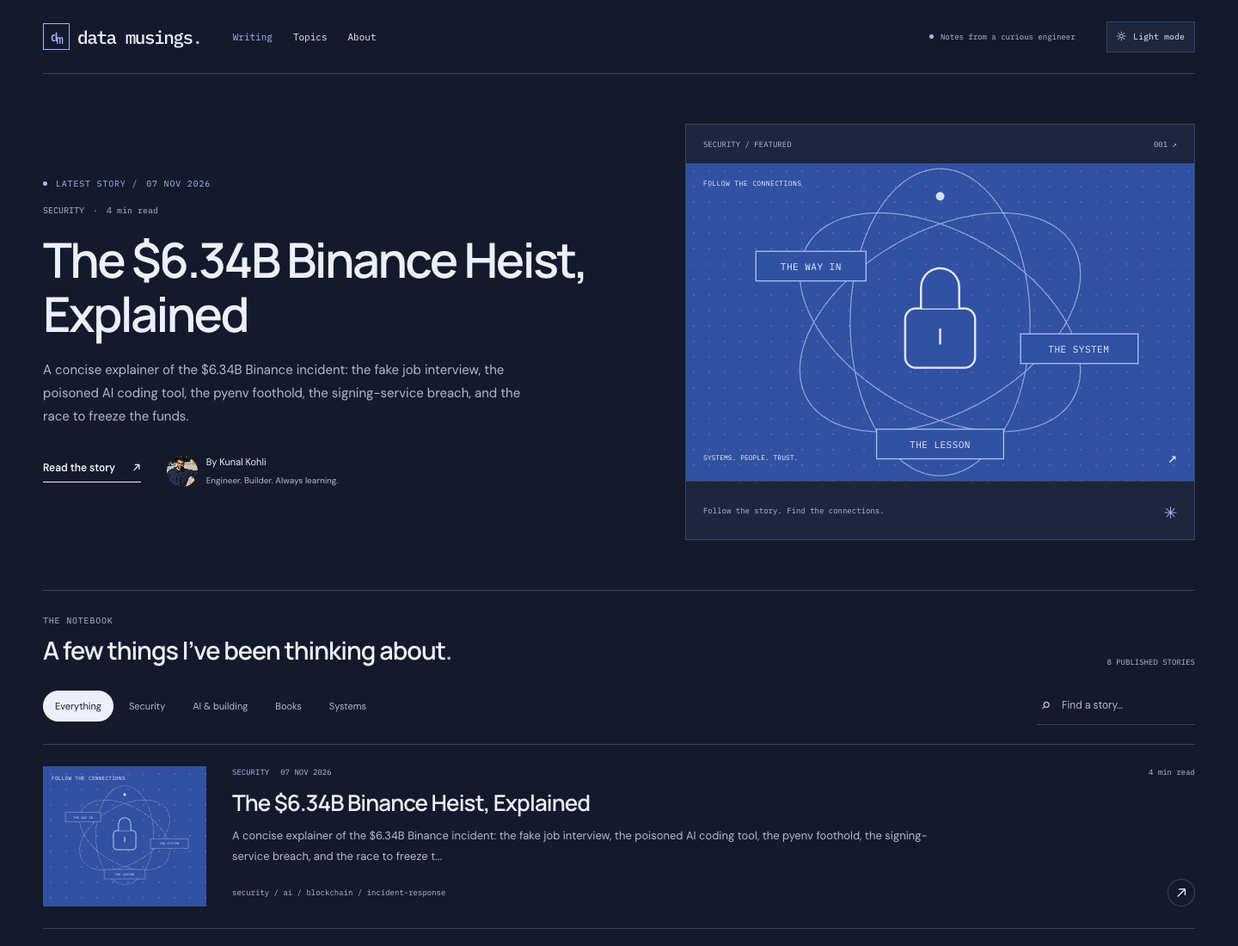
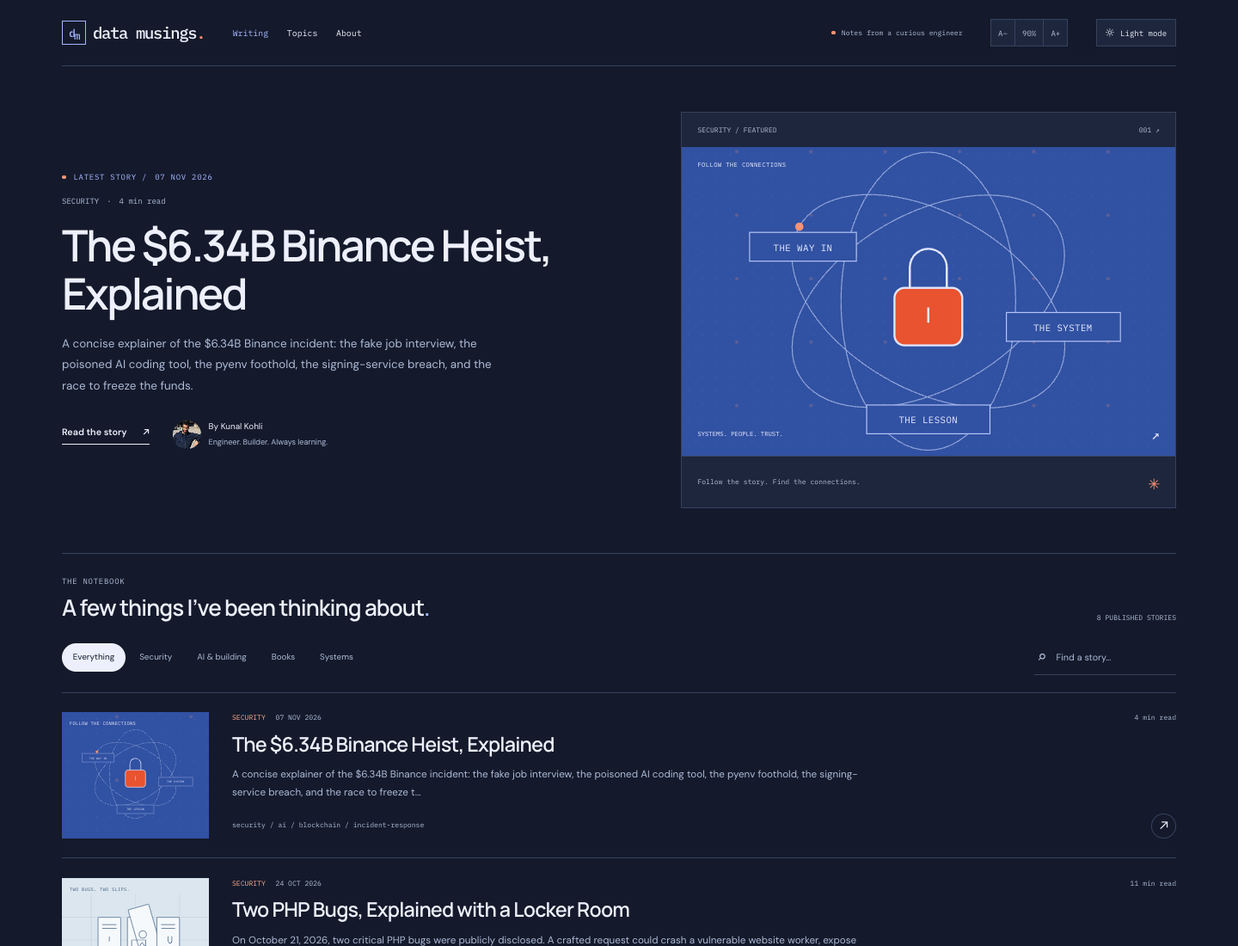
Add text-size control, unique per-post cover art and contents sidebar upgrades

diff --git a/css/site.css b/css/site.css
@@ -53,6 +53,7 @@ button:focus-visible, a:focus-visible, input:focus-visible, summary:focus-visibl
 .nav-note { margin-left: auto; display: flex; gap: 8px; align-items: center; font: 9px var(--mono); color: var(--muted); }
 .nav-note > span, .status-dot { width: 5px; height: 5px; border-radius: 50%; background: var(--citrus); flex-shrink: 0; }
 .theme-toggle { display: inline-flex; align-items: center; justify-content: center; gap: 8px; padding: 7px 11px; font: 10px var(--mono); border: 1px solid var(--line); background: var(--surface); min-height: 36px; white-space: nowrap; }
+.text-size { display: inline-flex; align-items: stretch; border: 1px solid var(--line); background: var(--surface); min-height: 36px; }.text-size button { border: 0; background: transparent; color: var(--muted); padding: 0 9px; font: 10px/1 var(--mono); }.text-size button:hover:not(:disabled) { color: var(--accent); }.text-size button:disabled { opacity: .35; cursor: default; }.text-size [data-text-label] { display: inline-flex; align-items: center; justify-content: center; min-width: 36px; border-inline: 1px solid var(--line); padding: 0 9px; font: 10px var(--mono); color: var(--muted); }
 [data-theme-icon] { font: 19px/1 var(--body); }
 .eyebrow { font: 10px/1.7 var(--mono); color: var(--muted); letter-spacing: .08em; margin: 0 0 16px; text-transform: uppercase; }
 .text-link { display: inline-flex; align-items: center; gap: 20px; padding-bottom: 5px; border-bottom: 1px solid currentColor; font-size: 12px; font-weight: 600; }
@@ -77,13 +78,18 @@ button:focus-visible, a:focus-visible, input:focus-visible, summary:focus-visibl
 .art-tag { position: absolute; top: 18px; left: 20px; z-index: 1; font: 8px var(--mono); letter-spacing: .05em; }
 .art-caption { position: absolute; bottom: 14px; left: 20px; right: 20px; display: flex; align-items: center; justify-content: space-between; gap: 10px; font: 8px/1.5 var(--mono); }
 .art-caption > span { font-size: 18px; }
-.art-security { background-color: #3151a2; background-image: radial-gradient(#ffffff22 1px, transparent 1px); }
+.art-security { background-color: #3151a2; background-image: radial-gradient(#ff9d7e33 2px, transparent 2.6px), radial-gradient(#ffffff22 1px, transparent 1px); background-size: 96px 82px, 18px 18px; background-position: 23px 47px, 0 0; }
 .art-orbits { stroke: #cedaff; stroke-width: 1; opacity: .6; }
-.art-lock { stroke: #e0e5ff; stroke-width: 2; fill: #3151a2; }
-.art-labels rect { fill: #3151a2; stroke: #b5c5f7; stroke-width: 1; }.art-labels text { fill: #e8edff; font: 9px var(--mono); letter-spacing: .04em; }
-.orbit-dot { fill: var(--citrus); transform-origin: 240px 150px; animation: orbit 28s linear infinite; }
+.art-lock { stroke: #e0e5ff; stroke-width: 2; fill: none; }.art-lock rect { fill: #e9532f; }
+.art-labels rect { fill: #3151a2; stroke: #b5c5f7; stroke-width: 1; }.art-labels text { fill: #e8edff; font: 9px var(--mono); letter-spacing: .04em; }.art-lesson { fill: #e9532f; stroke: #ffc9b6; }.art-lesson-text { fill: #fff; }
+.orbit-dot { fill: var(--citrus); offset-path: path("M114.43 77.5A145 85 30 1 1 365.57 222.5A145 85 30 1 1 114.43 77.5"); transform-box: fill-box; transform-origin: center; offset-anchor: center; animation: orbit-follow 28s linear infinite; }
 .art-building { background: #dce6ef; color: #416183; }.art-grid { stroke: #41618325; }.art-chart { stroke: #416183; stroke-width: 2; stroke-linejoin: round; stroke-dasharray: 650; stroke-dashoffset: 650; animation: draw 2.4s ease forwards; }
 .art-books { background: #e5d9cf; color: #6c5141; }.art-books svg { stroke: #866851; stroke-width: 1.5; }.art-books rect { fill: #f4e6d7; }
+.art-lockers { background: #dce6ef; color: #416183; }.art-lockers svg { stroke: #416183; stroke-width: 2; stroke-linejoin: round; fill: none; }.art-lockers .locker > rect { fill: #f6f9fc; }
+.art-pulse { background: #def0e7; color: #2e7d64; }.art-pulse svg { stroke: #2e7d64; stroke-width: 2; stroke-linejoin: round; fill: none; }.art-pulse .art-grid { stroke: #2e7d6422; }.art-pulse .art-chart { stroke: #2e7d64; }
+.art-paper { background: #f6efe3; color: #8a6d4e; }.art-paper svg { stroke: #8a6d4e; stroke-width: 2; stroke-linejoin: round; fill: none; }.art-paper rect { fill: #fffdf7; }.art-paper .pencil rect { fill: #e9d9b8; }
+.art-branch { background: #dbe4f6; color: #3f5da8; }.art-branch svg { stroke: #3f5da8; stroke-width: 2; stroke-linejoin: round; fill: none; }.art-branch svg > circle { fill: #3f5da8; stroke: none; }
+.art-hello { background: #243059; color: #c9d5ff; }.art-hello svg { stroke: #8fa5e8; stroke-width: 1.5; fill: none; }.art-hello svg > text { fill: #c9d5ff; font: 11px var(--mono); letter-spacing: .04em; }
 .art-systems { background: #dce1f4; color: #47619f; }.art-systems svg { stroke: #47619f; stroke-width: 1.5; }.art-systems svg > rect { fill: #b9c8f3; }.system-wires { stroke-dasharray: 3 5; }
 .latest-visual .post-art { min-height: 315px; height: auto; }.latest-visual .post-art svg { min-height: 315px; max-height: 430px; }.post-cover-image { width: 100%; height: 100%; object-fit: cover; display: block; }.latest-visual .post-cover-image { max-height: 400px; }
 .writing { scroll-margin-top: 30px; }
@@ -101,6 +107,7 @@ button:focus-visible, a:focus-visible, input:focus-visible, summary:focus-visibl
 .empty-state { padding-block: 35px; color: var(--muted); }.notebook-note { display: flex; align-items: center; gap: 24px; padding-block: 28px; border-block: 1px solid var(--line); margin-top: 30px; }.spark { color: var(--citrus); font-size: 32px; line-height: 1; }.notebook-note p { font: 14px/1.8 var(--mono); margin: 0; }.notebook-note p strong { font-weight: 500; }.notebook-note .text-link { margin-left: auto; }
 .site-footer { display: flex; align-items: center; gap: 28px; padding-block: 35px; }.site-footer .wordmark { font-size: 19px; }.site-footer > div > p { font-size: 11px; color: var(--muted); margin: 7px 0 0; }.site-footer nav { display: flex; flex-wrap: wrap; gap: 20px; font-size: 11px; margin-left: auto; }.site-footer nav a:hover { color: var(--accent); }.footer-credit { color: var(--muted); font: 8px var(--mono); }
 /* Articles: existing content is retained verbatim. */
+#post { max-width: 1240px; }
 .post-header { padding: 32px 0 40px; max-width: 1080px; margin: 0 auto; }.back-link { color: var(--muted); font-size: 11px; display: inline-flex; margin-bottom: 32px; }.post-topics { display: flex; flex-wrap: wrap; gap: 8px 15px; color: var(--accent); font: 10px/1.7 var(--mono); text-transform: uppercase; }.post-topics a:hover { text-decoration: underline; }
 .post-header h1 { font: 600 clamp(36px, 4.6vw, 68px)/1.12 var(--heading); letter-spacing: -.045em; margin: 20px 0 24px; overflow-wrap: break-word; }.post-deck { color: var(--muted); font-size: 17px; line-height: 1.8; margin: 0 0 25px; max-width: 790px; }
 .post-byline { display: flex; align-items: center; gap: 11px; font-size: 11px; }.post-byline img { border-radius: 50%; object-fit: cover; width: 40px; height: 40px; }.post-byline > div > a { font-weight: 600; }.post-byline p { display: flex; align-items: center; flex-wrap: wrap; gap: 10px; color: var(--muted); margin: 3px 0 0; font-size: 10px; }.copy-link { margin-left: auto; border: 1px solid var(--line); padding: 8px 12px; background: var(--surface); font: 10px var(--mono); }
@@ -111,7 +118,7 @@ button:focus-visible, a:focus-visible, input:focus-visible, summary:focus-visibl
 .post-layout:not(:has(.post-toc)) .post-content, .post-layout.no-toc .post-content { grid-column: 1; }
 .post-toc { position: sticky; top: 24px; max-height: calc(100svh - 48px); overflow-y: auto; scrollbar-width: thin; }
 .toc-disclosure summary { display: flex; justify-content: space-between; gap: 10px; font: 9px/1.7 var(--mono); color: var(--muted); letter-spacing: .08em; cursor: pointer; padding-block: 4px 16px; list-style: none; }.toc-disclosure summary::-webkit-details-marker { display: none; }.toc-disclosure[open] summary > span { transform: rotate(180deg); }
-.post-toc ol { list-style: none; margin: 0; padding: 0; }.post-toc a { display: block; color: var(--muted); padding: 10px 3px; border-bottom: 1px solid var(--line); font-size: 11px; line-height: 1.6; overflow-wrap: anywhere; }.post-toc a[aria-current="location"] { color: var(--accent); font-weight: 600; border-bottom-color: var(--accent); }.post-toc a:hover { color: var(--accent); }.toc-footnote { font: 11px/1.9 var(--mono); margin-top: 28px; color: var(--muted); }.toc-footnote > span { display: block; font: 30px var(--body); color: var(--citrus); margin-bottom: 8px; }
+.post-toc ol { list-style: none; margin: 0; padding: 0; }.post-toc a { display: block; color: var(--muted); padding: 10px 3px; border-bottom: 1px solid var(--line); font-size: 11px; line-height: 1.6; overflow-wrap: anywhere; }.post-toc a[aria-current="location"] { color: var(--accent); font-weight: 600; border-bottom-color: var(--accent); }.post-toc a:hover { color: var(--accent); }.toc-index { display: block; font: 8px var(--mono); letter-spacing: .1em; color: var(--muted); opacity: .8; margin-bottom: 2px; }.post-toc a[aria-current="location"] .toc-index { color: var(--citrus-ink); opacity: 1; }.post-toc li[data-heading-level="3"] > a { padding-left: 16px; }.post-toc li[data-heading-level="4"] > a { padding-left: 32px; }.toc-left { margin: 16px 0 0; font: 11px var(--mono); color: var(--muted); }.toc-left [data-toc-remaining] { color: var(--citrus-ink); font-weight: 600; }.toc-footnote { font: 11px/1.9 var(--mono); margin-top: 28px; color: var(--muted); }.toc-footnote > span { display: block; font: 30px var(--body); color: var(--citrus); margin-bottom: 8px; }
 .post-content { min-width: 0; font-size: 17px; line-height: 1.85; overflow-wrap: break-word; }
 .post-content > :is(p, ul, ol, h2, h3, h4, h5, h6, blockquote, pre, .highlight) { max-width: 760px; }
 .post-content p { margin: 0 0 1.35em; }.post-content h1, .post-content h2, .post-content h3, .post-content h4, .post-content h5, .post-content h6 { color: var(--ink); line-height: 1.3; letter-spacing: -.025em; font-family: var(--heading); font-weight: 600; margin: 1.7em 0 .75em; scroll-margin-top: 85px; }.post-content h2 { font-size: 30px; }.post-content h3 { font-size: 24px; }.post-content h4 { font-size: 21px; }.post-content h5, .post-content h6 { font-size: 18px; }.post-content > :first-child { margin-top: 0; }
@@ -140,13 +147,13 @@ code, pre { font-family: var(--mono); }.post-content code { padding: 2px 5px; ba
 .archive-group { margin-bottom: 45px; }.archive-group > h2 { font: 500 27px var(--heading); letter-spacing: -.03em; padding-bottom: 16px; border-bottom: 1px solid var(--line); }.archive-group > h2 > span { font: 10px var(--mono); color: var(--muted); margin-left: 15px; }.archive-list { list-style: none; margin: 0; padding: 0; }.archive-list > li { display: grid; grid-template-columns: 80px minmax(0,1fr) 100px; gap: 20px; align-items: baseline; padding: 18px 0; border-bottom: 1px solid var(--line); }.archive-list time, .archive-list li > span { font: 10px var(--mono); color: var(--muted); }.archive-list a { font-size: 17px; }.archive-list li > span { text-align: right; }
 .category-index { display: flex; flex-wrap: wrap; gap: 10px; margin-bottom: 40px; }.category-index > a, .skill-list > li { border: 1px solid var(--line); background: var(--surface); padding: 9px 14px; font-size: 12px; }.category-index > a > span { color: var(--muted); margin-left: 7px; font: 9px var(--mono); }.topic-groups { display: grid; grid-template-columns: repeat(2,minmax(0,1fr)); gap: 32px; }.topic-group { border-top: 1px solid var(--line); padding-top: 16px; }.topic-group h2 { scroll-margin-top: 30px; font: 500 24px var(--heading); letter-spacing: -.025em; text-transform: capitalize; }.topic-group ul { margin: 0; padding: 0; list-style: none; }.topic-group li { border-bottom: 1px solid var(--line); padding: 15px 0; font-size: 14px; }.topic-group time { display: block; font: 9px var(--mono); color: var(--muted); margin-top: 8px; }
 .about-header { display: flex; align-items: center; justify-content: space-between; gap: 30px; max-width: 1000px; margin-bottom: 40px; }.about-header img { border-radius: 50%; object-fit: cover; width: 150px; height: 150px; }.about-deck { color: var(--muted); margin: 0; }.about-grid { display: grid; grid-template-columns: minmax(0,1.4fr) minmax(0,1fr); gap: 65px; }.about-section { margin-bottom: 40px; border-top: 1px solid var(--line); padding-top: 22px; }.about-section h1, .about-section h2 { font: 600 26px var(--heading); letter-spacing: -.025em; margin: 0 0 20px; }.about-section h3 { font: 600 19px var(--heading); letter-spacing: -.025em; margin: 0 0 14px; }.about-section p, .about-section > div { color: var(--muted); font-size: 14px; line-height: 1.9; }.project-card { padding: 24px 0; border-bottom: 1px solid var(--line); }.project-card > div { color: var(--muted); font-size: 13px; line-height: 1.9; }.project-links { display: flex; gap: 20px; margin-top: 20px; }.project-links a { color: var(--accent); font-size: 12px; text-decoration: underline; text-underline-offset: 3px; }.skill-list { list-style: none; padding: 0; margin: 0; display: flex; flex-wrap: wrap; gap: 8px; }.career-list { list-style: none; margin: 0; padding: 0; }.career-list > li { padding: 18px 0; border-bottom: 1px solid var(--line); }.career-list li > span { color: var(--muted); font: 10px var(--mono); }.career-list h3 { margin: 8px 0; font-size: 16px; }.career-list a { font-size: 12px; color: var(--accent); }
-@keyframes orbit { to { transform: rotate(360deg); } }
+@keyframes orbit-follow { to { offset-distance: 100%; } }
 @keyframes draw { to { stroke-dashoffset: 0; } }
 @media (max-width: 1100px) {
   .shell { width: calc(100% - 64px); }.site-nav { gap: 25px; }.nav-note { display: none; }.theme-toggle { margin-left: auto; }.latest-story { gap: 35px; padding-block: 45px; }.latest-story h1 { font-size: 42px; }.latest-visual .post-art, .latest-visual .post-art svg { min-height: 280px; }.latest-bottom { gap: 22px; }.post-layout { grid-template-columns: 160px minmax(0,1fr); gap: 28px; }.post-header { max-width: 950px; }.post-content { font-size: 16px; }.about-grid { gap: 35px; }.footer-credit { display: none; }
 }
 @media (max-width: 760px) {
-  .shell { width: calc(100% - 40px); }.site-nav { min-height: 75px; gap: 20px; flex-wrap: wrap; padding-block: 14px; }.wordmark { font-size: 19px; }.brand-mark { display: none; }.nav-links { font-size: 10px; gap: 16px; }.theme-toggle { padding: 6px 8px; min-height: 32px; font-size: 9px; }
+  .shell { width: calc(100% - 40px); }.site-nav { min-height: 75px; gap: 20px; flex-wrap: wrap; padding-block: 14px; }.wordmark { font-size: 19px; }.brand-mark { display: none; }.nav-links { font-size: 10px; gap: 16px; }.theme-toggle { padding: 6px 8px; min-height: 32px; font-size: 9px; }.text-size { min-height: 32px; }
   .latest-story { grid-template-columns: 1fr; padding-block: 35px; gap: 28px; }.latest-story h1 { font-size: clamp(36px,6.5vw,52px); margin-block: 16px; }.latest-story .eyebrow { font-size: 9px; }.latest-description { max-width: 650px; font-size: 14px; }.latest-bottom { justify-content: space-between; gap: 20px; }.latest-visual .post-art, .latest-visual .post-art svg { min-height: 230px; }.latest-visual .post-art svg { max-height: 290px; }.visual-caption, .visual-foot { font-size: 8px; padding: 13px 16px; }
   .section-heading { padding-top: 24px; }.section-heading h2 { font-size: 27px; }.section-count { display: none; }.feed-tools { flex-wrap: wrap; gap: 15px; margin-block: 20px; }.topic-filters { gap: 3px; }.topic-filters button { padding: 7px 10px; font-size: 10px; }.search-box { width: 100%; }.search-box input { width: 100%; }
   .story { grid-template-columns: 125px minmax(0,1fr); gap: 20px; }.story h2 { font-size: 23px; }.story-meta { gap: 6px 12px; font-size: 8px; }.story-meta .read-time { margin-left: 0; }.story-body > p { font-size: 12px; }.story-footer { font-size: 8px; }.story .art-tag { font-size: 5px; left: 7px; }.story .post-art { min-height: 170px; }
@@ -158,7 +165,7 @@ code, pre { font-family: var(--mono); }.post-content code { padding: 2px 5px; ba
   .about-header img { width: 100px; height: 100px; }.about-header { gap: 20px; }.about-header .eyebrow { font-size: 8px; }.about-deck { font-size: 13px; }.about-grid { grid-template-columns: 1fr; gap: 0; }
 }
 @media (max-width: 480px) {
-  .site-nav { gap: 12px; }.site-nav .wordmark { font-size: 18px; }.nav-links { gap: 13px; margin-left: auto; }.theme-toggle { margin-left: 0; padding: 6px; width: 30px; }.theme-toggle [data-theme-label] { display: none; }.theme-toggle [data-theme-icon] { font-size: 17px; }
+  .site-nav { gap: 12px; }.site-nav .wordmark { font-size: 18px; }.nav-links { gap: 13px; margin-left: auto; }.theme-toggle { margin-left: 0; padding: 6px; width: 30px; }.theme-toggle [data-theme-label] { display: none; }.theme-toggle [data-theme-icon] { font-size: 17px; }.text-size [data-text-label] { display: none; }.text-size button { padding: 0 7px; }
   .latest-meta { font-size: 9px; }.author-mini { font-size: 10px; }.author-mini small { font-size: 9px; max-width: 150px; }.latest-description { font-size: 14px; }.latest-bottom { align-items: flex-start; }.latest-visual .post-art svg { min-height: 220px; }.latest-visual .art-caption { font-size: 7px; }
   .story { grid-template-columns: 1fr; gap: 0; padding-block: 22px; }.story-art-link { display: none; }.story h2 { font-size: 24px; }.story-meta { font-size: 9px; }.story-body > p { font-size: 13px; }.story-meta .read-time { margin-left: auto; }.story-footer { font-size: 9px; }
   .site-footer nav { margin-left: 0; flex-basis: 100%; }.site-footer > div > p { font-size: 10px; }.post-header h1 { font-size: 34px; }.post-topics { font-size: 8px; }.post-deck { font-size: 14px; }.post-byline { flex-wrap: wrap; }.copy-link { font-size: 9px; padding: 7px 9px; }.post-content { font-size: 15px; }.post-content h2 { font-size: 25px; }.post-content li { margin-bottom: .8em; }.post-content ul, .post-content ol { padding-left: 20px; }.post-content th, .post-content td { font-size: 11px; padding: 10px 7px; }.post-end > p { max-width: 210px; }.about-header { align-items: start; }.about-header img { width: 75px; height: 75px; }.about-header h1 { font-size: 35px; }

diff --git a/_includes/post-art.html b/_includes/post-art.html
@@ -3,10 +3,46 @@
   {% assign cover_src = art_post.image.feature %}
   {% unless cover_src contains '://' %}{% assign cover_src = cover_src | prepend: '/img/' | relative_url %}{% endunless %}
   <img class="post-cover-image" src="{{ cover_src }}" alt=""{% unless include.hero %} loading="lazy"{% endunless %}>
+{% elsif art_post.slug contains 'binance-incident' %}
+  <div class="post-art art-security" aria-hidden="true">
+    <span class="art-tag">FOLLOW THE CONNECTIONS</span>
+    <svg viewBox="0 0 480 300" fill="none"><g class="art-orbits"><path d="M114.43 77.5A145 85 30 1 1 365.57 222.5A145 85 30 1 1 114.43 77.5"/><ellipse cx="240" cy="150" rx="145" ry="85" transform="rotate(-30 240 150)"/><ellipse cx="240" cy="150" rx="145" ry="85" transform="rotate(90 240 150)"/></g><g class="art-lock"><rect x="207" y="137" width="66" height="56" rx="10"/><path d="M222 137v-20a18 18 0 0 1 36 0v20m-18 19v15"/></g><g class="art-labels"><rect x="66" y="83" width="104" height="28"/><text x="118" y="101" text-anchor="middle">THE WAY IN</text><rect x="316" y="161" width="111" height="28"/><text x="371" y="179" text-anchor="middle">THE SYSTEM</text><rect class="art-lesson" x="180" y="251" width="120" height="28"/><text class="art-lesson-text" x="240" y="269" text-anchor="middle">THE LESSON</text></g><circle class="orbit-dot" cx="114.43" cy="77.5" r="4"/></svg>
+    <span class="art-caption">SYSTEMS. PEOPLE. TRUST.<span>↗</span></span>
+  </div>
+{% elsif art_post.slug contains 'locker-room' %}
+  <div class="post-art art-lockers" aria-hidden="true">
+    <span class="art-tag">TWO BUGS. TWO SLIPS.</span>
+    <svg viewBox="0 0 480 300" fill="none"><path class="art-grid" d="M0 75h480M0 150h480M0 225h480M96 0v300M240 0v300M384 0v300"/><g class="locker"><rect x="118" y="76" width="74" height="154" rx="4"/><path d="M132 100h46M132 112h46M155 138v16"/></g><g class="locker locker-open"><rect x="214" y="76" width="74" height="154" rx="4"/><rect x="216" y="52" width="70" height="152" rx="4" transform="rotate(-16 216 52)"/><path d="M228 150h46v22a10 10 0 0 1-10 10h-26a10 10 0 0 1-10-10z"/><circle cx="264" cy="132" r="12"/><path d="M252 172l10-14 10 14"/></g><g class="locker"><rect x="310" y="76" width="74" height="154" rx="4"/><path d="M324 100h46M324 112h46M347 138v16a6 6 0 1 0 12 0v-16"/></g><path d="M84 254h312M108 254v18M372 254v18"/></svg>
+    <span class="art-caption">ONE UNFINISHED RECORD. ONE STALE SLIP.<span>↗</span></span>
+  </div>
+{% elsif art_post.slug contains 'healthify' %}
+  <div class="post-art art-pulse" aria-hidden="true">
+    <span class="art-tag">EVERY GUESS GETS A GUARDRAIL</span>
+    <svg viewBox="0 0 480 300" fill="none"><path class="art-grid" d="M0 75h480M0 150h480M0 225h480M96 0v300M240 0v300M384 0v300"/><rect x="212" y="98" width="120" height="66" rx="10"/><path d="M232 120h80M232 136h56"/><path class="art-chart" d="M30 196h58l20-30 24 62 26-120 24 88 18-32h64l16-22 18 22h106"/><circle cx="212" cy="131" r="5" fill="currentColor"/><circle cx="402" cy="131" r="5" fill="currentColor"/></svg>
+    <span class="art-caption">CHAT IS THE ONLY GATEWAY.<span>↗</span></span>
+  </div>
+{% elsif art_post.slug contains 'little-adventurers' %}
+  <div class="post-art art-paper" aria-hidden="true">
+    <span class="art-tag">PENCIL FIRST. SCREEN NEVER.</span>
+    <svg viewBox="0 0 480 300" fill="none"><g transform="rotate(-6 240 150)"><rect x="126" y="64" width="168" height="176" rx="4"/><path d="M152 96h96M152 112h64"/><path d="M154 146q22-14 44 0t44 0q22-14 44 0"/><rect x="152" y="176" width="16" height="16" rx="3"/><path d="M155 184l4 5 8-10"/><rect x="188" y="176" width="16" height="16" rx="3"/><path d="M191 184l4 5 8-10"/><rect x="224" y="176" width="16" height="16" rx="3"/><path d="M229 188l3 4 9-11"/><path d="M154 218h116"/></g><g class="pencil" transform="rotate(38 356 128)"><rect x="330" y="116" width="104" height="24" rx="3"/><path d="M330 116l-24 12 24 22M430 120v16"/><path d="M346 116v24"/></g></svg>
+    <span class="art-caption">WORKSHEETS THEIR KIDS CAN HOLD.<span>↗</span></span>
+  </div>
+{% elsif art_post.slug contains 'jit' %}
+  <div class="post-art art-branch" aria-hidden="true">
+    <span class="art-tag">WATCH. MEASURE. COMPILE.</span>
+    <svg viewBox="0 0 480 300" fill="none"><path d="M96 74v152"/><path class="system-wires" d="M96 74c60 0 60 66 120 66s60-66 120-66M96 226c60 0 60-84 120-84h120"/><path class="system-wires" d="M96 150c40 0 80 34 120 34"/><circle cx="96" cy="74" r="13"/><circle cx="96" cy="150" r="13"/><circle cx="96" cy="226" r="13"/><circle cx="216" cy="140" r="13"/><circle cx="336" cy="74" r="13"/><circle cx="336" cy="184" r="13"/><rect x="270" y="108" width="132" height="40" rx="8"/><path d="M282 122h56M282 136h76"/></svg>
+    <span class="art-caption">HOT PATHS BECOME MACHINE CODE.<span>↗</span></span>
+  </div>
+{% elsif art_post.slug contains 'welcome-to-jekyll' %}
+  <div class="post-art art-hello" aria-hidden="true">
+    <span class="art-tag">ZERO TO PUBLISHED</span>
+    <svg viewBox="0 0 480 300" fill="none"><rect x="76" y="66" width="328" height="172" rx="10"/><path d="M76 100h328"/><circle cx="98" cy="83" r="5"/><circle cx="116" cy="83" r="5"/><circle cx="134" cy="83" r="5"/><text x="100" y="140">$ jekyll serve</text><text x="100" y="168">Server running... press ctrl-c to stop</text><rect x="100" y="188" width="150" height="10" rx="3" fill="none"/><text x="100" y="196">$</text><path d="M116 186l10 5-10 5"/></svg>
+    <span class="art-caption">HELLO, WORLD. IT COMPUTES.<span>↗</span></span>
+  </div>
 {% elsif art_post.categories contains 'security' %}
   <div class="post-art art-security" aria-hidden="true">
     <span class="art-tag">FOLLOW THE CONNECTIONS</span>
-    <svg viewBox="0 0 480 300" fill="none"><g class="art-orbits"><ellipse cx="240" cy="150" rx="145" ry="85" transform="rotate(30 240 150)"/><ellipse cx="240" cy="150" rx="145" ry="85" transform="rotate(-30 240 150)"/><ellipse cx="240" cy="150" rx="145" ry="85" transform="rotate(90 240 150)"/></g><g class="art-lock"><rect x="207" y="137" width="66" height="56" rx="10"/><path d="M222 137v-20a18 18 0 0 1 36 0v20m-18 19v15"/></g><g class="art-labels"><rect x="66" y="83" width="104" height="28"/><text x="118" y="101" text-anchor="middle">THE WAY IN</text><rect x="316" y="161" width="111" height="28"/><text x="371" y="179" text-anchor="middle">THE SYSTEM</text><rect x="180" y="251" width="120" height="28"/><text x="240" y="269" text-anchor="middle">THE LESSON</text></g><circle class="orbit-dot" cx="240" cy="31" r="4"/></svg>
+    <svg viewBox="0 0 480 300" fill="none"><g class="art-orbits"><path d="M114.43 77.5A145 85 30 1 1 365.57 222.5A145 85 30 1 1 114.43 77.5"/><ellipse cx="240" cy="150" rx="145" ry="85" transform="rotate(-30 240 150)"/><ellipse cx="240" cy="150" rx="145" ry="85" transform="rotate(90 240 150)"/></g><g class="art-lock"><rect x="207" y="137" width="66" height="56" rx="10"/><path d="M222 137v-20a18 18 0 0 1 36 0v20m-18 19v15"/></g><g class="art-labels"><rect x="66" y="83" width="104" height="28"/><text x="118" y="101" text-anchor="middle">THE WAY IN</text><rect x="316" y="161" width="111" height="28"/><text x="371" y="179" text-anchor="middle">THE SYSTEM</text><rect class="art-lesson" x="180" y="251" width="120" height="28"/><text class="art-lesson-text" x="240" y="269" text-anchor="middle">THE LESSON</text></g><circle class="orbit-dot" cx="114.43" cy="77.5" r="4"/></svg>
     <span class="art-caption">SYSTEMS. PEOPLE. TRUST.<span>↗</span></span>
   </div>
 {% elsif art_post.categories contains 'ai' or art_post.categories contains 'projects' %}

diff --git a/js/site.js b/js/site.js
@@ -30,6 +30,33 @@
   });
   updateTheme(root.dataset.theme || 'light', false);
 
+  var textSteps = Array.from(document.querySelectorAll('[data-text-step]'));
+  if (textSteps.length) {
+    var sizeGroup = textSteps[0].closest('.text-size');
+    var sizeLabel = sizeGroup.querySelector('[data-text-label]');
+    var textSize = parseInt(root.dataset.textSize, 10) || 90;
+    sizeGroup.hidden = false;
+    function normalizeSize(value) { return Math.min(110, Math.max(70, Math.round(value / 10) * 10)); }
+    function updateTextSize(save) {
+      root.style.zoom = textSize / 100;
+      sizeLabel.textContent = textSize + '%';
+      textSteps.forEach(function (button) {
+        var delta = button.dataset.textStep === '+' ? 10 : -10;
+        button.disabled = normalizeSize(textSize + delta) === textSize;
+      });
+      if (save) {
+        try { localStorage.setItem('data-musings-text-size', String(textSize)); } catch (error) {}
+      }
+    }
+    textSteps.forEach(function (button) {
+      button.addEventListener('click', function () {
+        textSize = normalizeSize(textSize + (button.dataset.textStep === '+' ? 10 : -10));
+        updateTextSize(true);
+      });
+    });
+    updateTextSize(false);
+  }
+
   var search = document.querySelector('[data-search]');
   if (search) {
     var filter = 'all';
@@ -102,12 +129,22 @@
     });
   }
   var progress = document.querySelector('[data-reading-progress]');
+  var tocNote = document.querySelector('[data-toc-note]');
+  var tocRemaining = document.querySelector('[data-toc-remaining]');
+  var bylineRead = document.querySelector('.post-byline .read-time');
+  var totalMinutes = bylineRead ? parseInt(bylineRead.textContent, 10) : 0;
   var pending = false;
   function updateReading() {
     pending = false;
     var bounds = article.getBoundingClientRect();
     var distance = Math.max(1, article.offsetHeight - window.innerHeight);
-    if (progress) progress.style.width = Math.max(0, Math.min(1, -bounds.top / distance)) * 100 + '%';
+    var fraction = Math.max(0, Math.min(1, -bounds.top / distance));
+    if (progress) progress.style.width = fraction * 100 + '%';
+    if (tocNote && totalMinutes) {
+      tocNote.hidden = false;
+      var left = Math.max(0, Math.min(totalMinutes, Math.ceil(totalMinutes * (1 - fraction))));
+      tocRemaining.textContent = left === 0 ? 'Done ✓' : left + ' min left';
+    }
     var current = entries[0];
     entries.forEach(function (entry) {
       if (entry.heading.getClientRects().length && entry.heading.getBoundingClientRect().top <= window.innerHeight * .3) current = entry;

diff --git a/_includes/contents.html b/_includes/contents.html
@@ -7,7 +7,7 @@
       {% if heading_tag contains 'id="' %}
         {% assign heading_id = heading_tag | split: 'id="' | last | split: '"' | first %}
         {% assign heading_text = part | split: '</h' | first | remove_first: heading_tag | remove_first: '>' | strip_html | strip %}
-        <li data-heading-level="{{ heading_level }}"><a href="#{{ heading_id }}">{{ heading_text }}</a></li>
+        <li data-heading-level="{{ heading_level }}"><a href="#{{ heading_id }}">{% assign toc_number = forloop.index %}{% if toc_number < 10 %}{% capture toc_index %}0{{ toc_number }}{% endcapture %}{% else %}{% capture toc_index %}{{ toc_number }}{% endcapture %}{% endif %}<span class="toc-index" aria-hidden="true">{{ toc_index }}</span><span class="toc-text">{{ heading_text }}</span></a></li>
       {% endif %}
     {% endif %}
   {% endfor %}
@@ -18,6 +18,7 @@
   <details class="toc-disclosure" open>
     <summary>ON THIS PAGE <span aria-hidden="true">⌄</span></summary>
     <nav aria-label="Table of contents"><ol>{{ toc_links }}</ol></nav>
+    <p class="toc-left" hidden data-toc-note><span data-toc-remaining></span></p>
     <p class="toc-footnote"><span aria-hidden="true">↘</span>Follow the story.<br>Find the connections.</p>
   </details>
 </aside>

diff --git a/_includes/site-nav.html b/_includes/site-nav.html
@@ -7,6 +7,11 @@
       <a href="{{ '/resume/' | relative_url }}"{% if page.url == '/resume/' %} aria-current="page"{% endif %}>About</a>
     </div>
     <span class="nav-note"><span></span> Notes from a curious engineer</span>
+    <div class="text-size" role="group" aria-label="Text size" hidden>
+      <button type="button" data-text-step="-" aria-label="Smaller text" disabled>A−</button>
+      <span data-text-label aria-live="polite">90%</span>
+      <button type="button" data-text-step="+" aria-label="Larger text">A+</button>
+    </div>
     <button class="theme-toggle" type="button" data-theme-toggle aria-label="Switch to dark mode" aria-pressed="false" hidden><span data-theme-icon aria-hidden="true">◐</span><span data-theme-label>Dark mode</span></button>
   </nav>
 </header>

diff --git a/_includes/head.html b/_includes/head.html
@@ -28,6 +28,12 @@
       if (theme !== 'light' && theme !== 'dark') theme = window.matchMedia('(prefers-color-scheme: dark)').matches ? 'dark' : 'light';
       document.documentElement.dataset.theme = theme;
       document.querySelector('meta[name="theme-color"]').content = theme === 'dark' ? '#141a2b' : '#f1f3f8';
+      var textSize;
+      try { textSize = parseInt(localStorage.getItem('data-musings-text-size'), 10); } catch (error) {}
+      if (!(textSize >= 70 && textSize <= 110)) textSize = 90;
+      textSize = Math.round(textSize / 10) * 10;
+      document.documentElement.dataset.textSize = textSize;
+      document.documentElement.style.zoom = textSize / 100;
     })();
   </script>
 

diff --git a/README.md b/README.md
@@ -21,7 +21,7 @@ Kunal Kohli's Jekyll blog. The site uses the approved **Signal layout with Workb
 - `/archive/`, `/categories/`, `/tags/`, `/resume/`: redesigned secondary pages. Legacy `/archive.html` and `/tags.html` links redirect to their canonical pages.
 - Biography, career, education, skill, and project data still come from `_data/index/` and `_includes/sections/about.html`. The biography now presents skill names as accessible tags rather than relying on the old external Chart.js widget.
 
-Themes follow the OS until the reader makes a choice. The choice is saved under the site-only `data-musings-theme` localStorage key and applied before paint. Motion respects `prefers-reduced-motion`. Search and theme buttons remain hidden if JavaScript is unavailable; the writing and contents remain accessible.
+Themes follow the OS until the reader makes a choice. The choice is saved under the site-only `data-musings-theme` localStorage key and applied before paint. A text-size control next to the theme toggle scales the site between 70–110% (default 90%) via the pre-paint script and saves its preference under `data-musings-text-size`; pages render at 100% when JavaScript is unavailable. Motion respects `prefers-reduced-motion`. Search and theme buttons remain hidden if JavaScript is unavailable; the writing and contents remain accessible.
 
 ## Local preview
 
